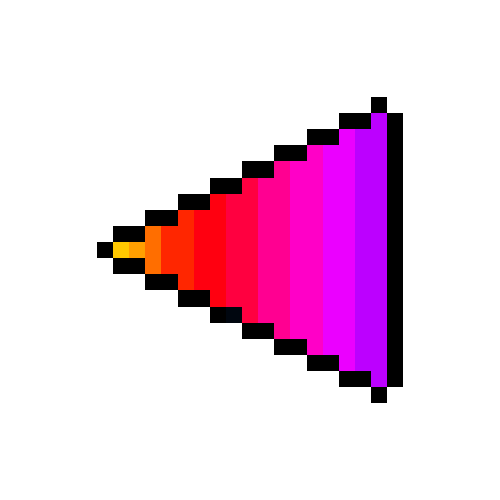
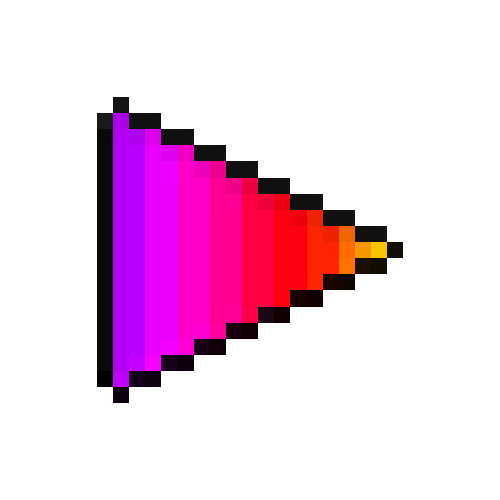
Added movement and fixed temp rotation calculations

Changed region(s): [[0.18, 0.18, 0.81, 0.81]]

diff --git a/modules/boid.py b/modules/boid.py
@@ -5,6 +5,7 @@ from random import randint
 
 class Boid:
     def __init__(self, settings: dict) -> None:
+        self.settings = settings
         try:
             boid_surface = pygame.image.load(settings["ICONPATH"])
             self.boid_surface = pygame.transform.scale(boid_surface, (50,50))
@@ -38,19 +39,42 @@ class Boid:
     def update_properties(self, mouse_pos: list[int, int]):
         for i in range(len(self.boid_list)):
             # Changing angle of each boid in boid_list
-            # self.boid_list[i]["rotation"] = self.calculate_rotation(mouse_pos, self.boid_list[i]["coords"])
+            self.boid_list[i]["rotation"] = self.calculate_rotation(mouse_pos, self.boid_list[i]["rectangle"].center)
             if self.boid_list[i]["rotation"] >= 360:
                 self.boid_list[i]["rotation"] = self.boid_list[i]["rotation"] - 360
 
-    def calculate_rotation(self, mouse_pos: list[int, int], boid_pos: list[int, int]) -> int:
-        vector1 = np.array(mouse_pos)
-        vector2 = np.array(boid_pos)
+            current_rect = self.boid_list[i]["rectangle"]
+            self.boid_list[i]["rectangle"] = self.calculate_new_rect(current_rect)
 
-        final_vector = np.add(vector2, -vector1)
+    def calculate_rotation(self, mouse_pos: list[int, int], boid_pos: list[int, int]) -> int:
+        mouse_vector = np.array(mouse_pos) # Vector of mouse coords
+        boid_vector = np.array(boid_pos) # Vector of boid coords
+
+        final_vector = np.add(boid_vector, -mouse_vector)
         x_axis = np.array([1,0])
         dot_product = np.dot(final_vector, x_axis)
         cosine_of_angle = dot_product / np.linalg.norm(final_vector)
         angle_radian = np.arccos(cosine_of_angle)
 
-        return round(180 + np.degrees(angle_radian),2)
+        final_rotation = 180 + round(np.degrees(angle_radian),2)
+
+        if mouse_vector[1] < boid_vector[1]:
+            return 360 - final_rotation
+        else:
+            return final_rotation
+
+    def calculate_new_rect(self, current_rect: pygame.Rect):
+        new_rect: pygame.Rect = current_rect
+        new_rect.x += 10
+        new_rect.y += 10
+
+        # Screen wrap implementation
+        # The -10 and +30 is to ensure the rectangle is loaded and unloaded off screen
+        # Since the rectangle doesn't perfectly align with the sprite
+        if new_rect.x >= self.settings["WIDTH"] - 10:
+            new_rect.x -= self.settings["WIDTH"] + 30
+        if new_rect.y >= self.settings["HEIGHT"] - 10:
+            new_rect.y -= self.settings["HEIGHT"] + 30
+
+        return new_rect
 

diff --git a/modules/initialize.py b/modules/initialize.py
@@ -60,6 +60,7 @@ class Initialize:
 
             message_list.append(f"{boid_list=}")
             message_list.append(f"boid_count={len(boid_list)}")
+            message_list.append(f"mouse_pos={pygame.mouse.get_pos()}")
 
             Debug(message_list, self.screen)
 
